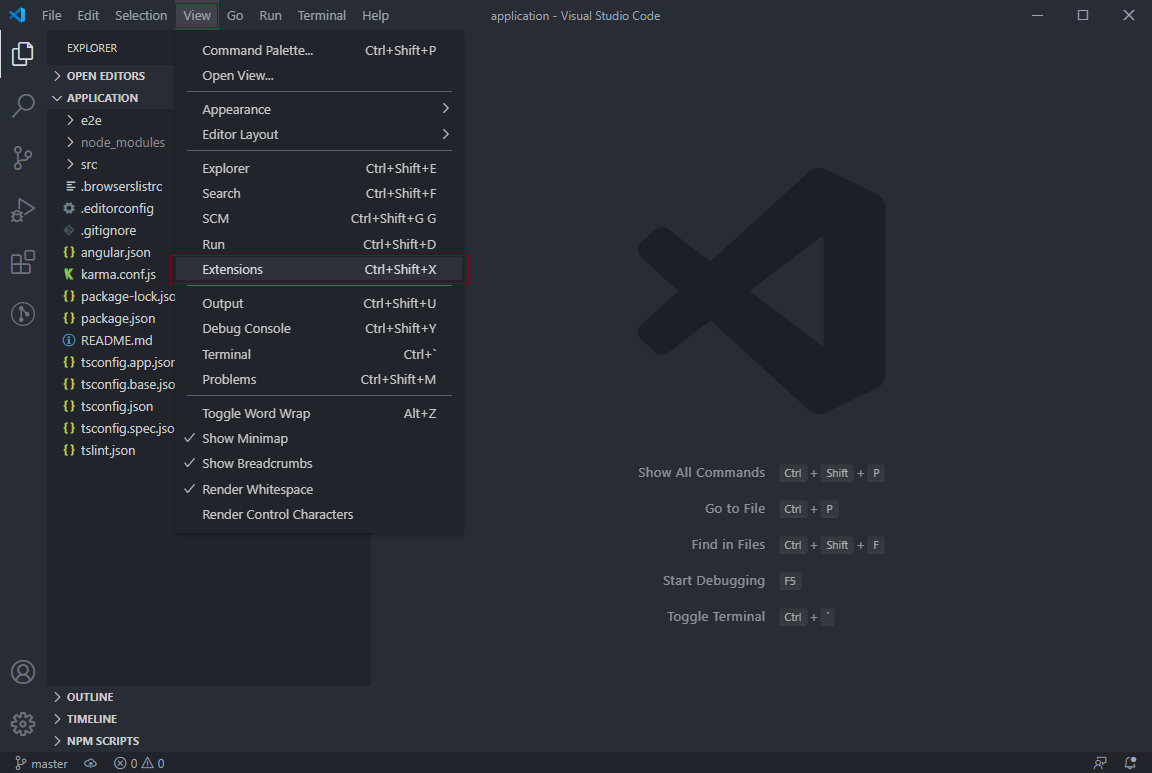
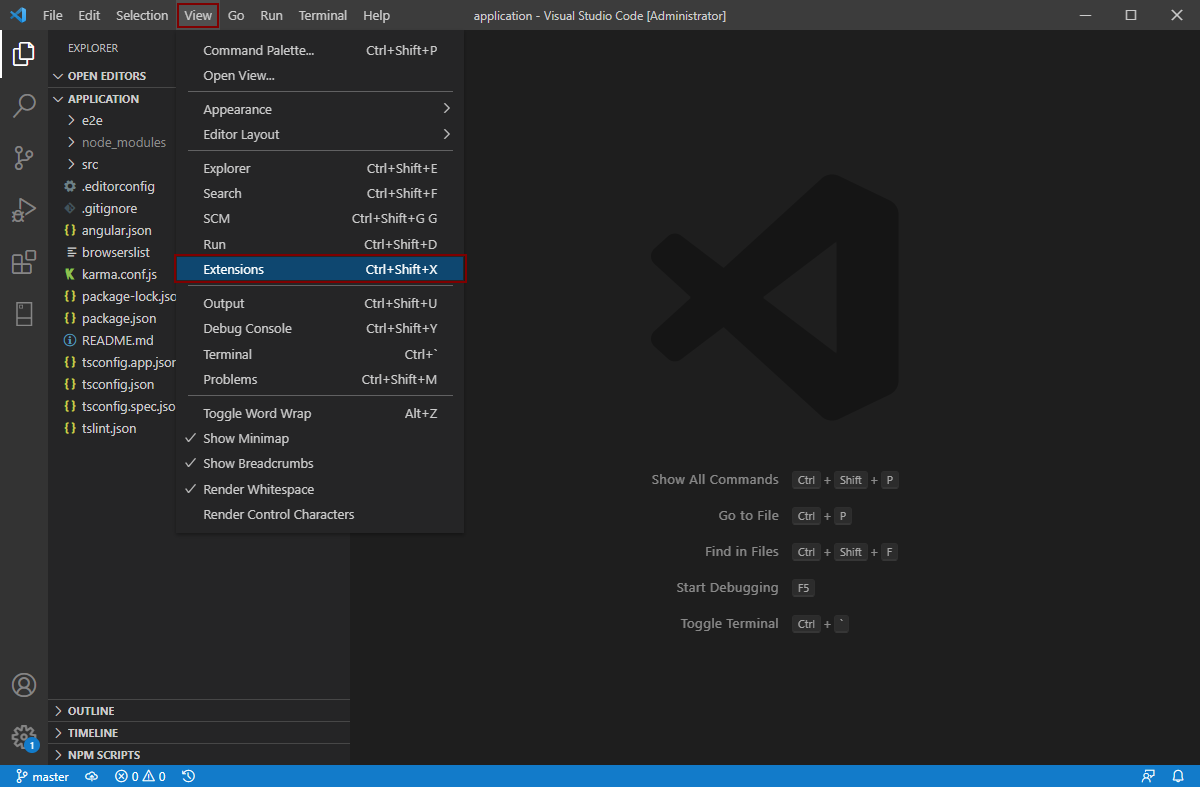
docs(vs-code-extension): Change topic to explain installing from marketplace

diff --git a/en/codegen/installing-vs-code-extension.md b/en/codegen/installing-vs-code-extension.md
@@ -13,9 +13,7 @@ Before you can install the VS Code Extension, please make sure you have Visual S
 
 ## Step-by-Step
 
-1.  Unzip the package to your hard drive
-
-2.  Once Visual Studio Code is open, select "View" then "Extensions" from the main menu
+1.  Once Visual Studio Code is open, select "View" then "Extensions" from the main menu
 
     <div class="divider--half"></div>
     <img class="responsive-img" src="../images/vs-code-extension-drop-down.png" />
@@ -25,21 +23,12 @@ Before you can install the VS Code Extension, please make sure you have Visual S
     <div class="divider--half"></div>
     <div class="divider--half"></div>
 
-3.  In the Extensions pane, click the More Options button (the three horizontal dots) in the upper right
+2.  In the Extensions pane, in the search for the extensions in Marketplace, type the following "Infragistics Indigo.Design".
 
-4.  Select "Install from VSIX" from the dropdown menu
+3.  Make sure to select "Infragistics Indigo.Design Code Generator" extension and click install
 
     <div class="divider--half"></div>
-    <img class="responsive-img" src="../images/vs-code-install-vsix.png" />
-    <div class="divider--half"></div>
-    <div class="divider--half"></div>
-    <div class="divider--half"></div>
-    <div class="divider--half"></div>
-    <div class="divider--half"></div>
-
-5.  Browse to the location of the unzipped file you downloaded to select the VS Code Extension
-    <div class="divider--half"></div>
-    <img class="responsive-img" src="../images/vs-code-select-vsix.png" />
+    <img class="responsive-img" src="../images/vs-code-install.png" />
     <div class="divider--half"></div>
     <div class="divider--half"></div>
     <div class="divider--half"></div>
